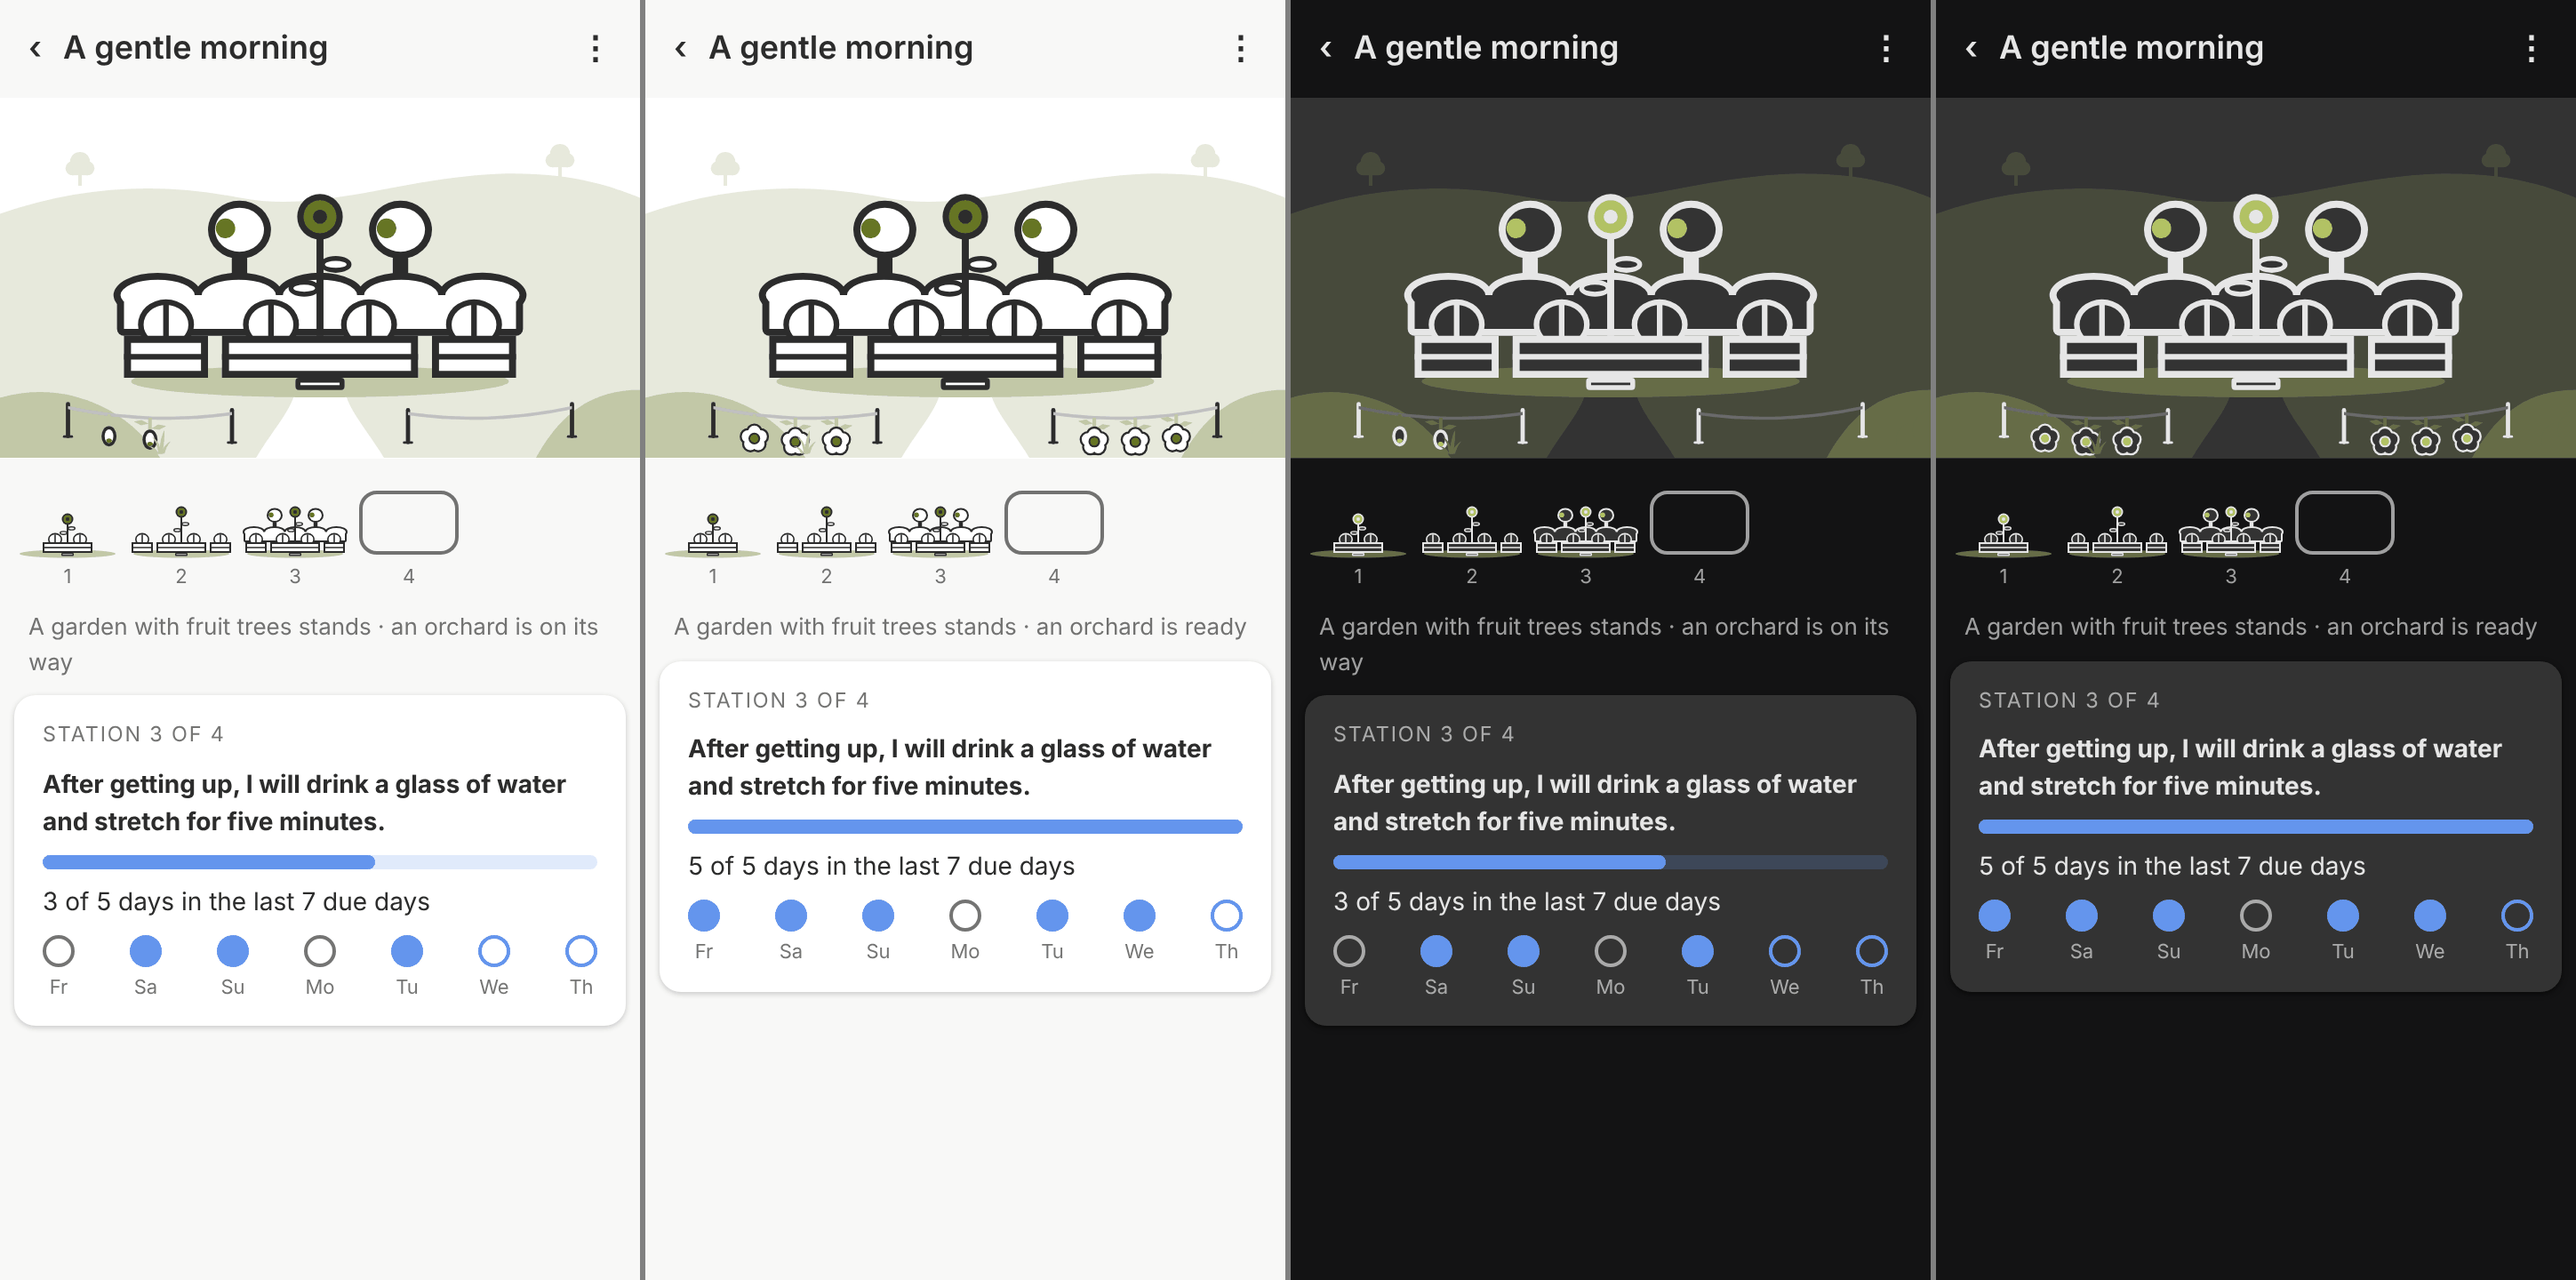
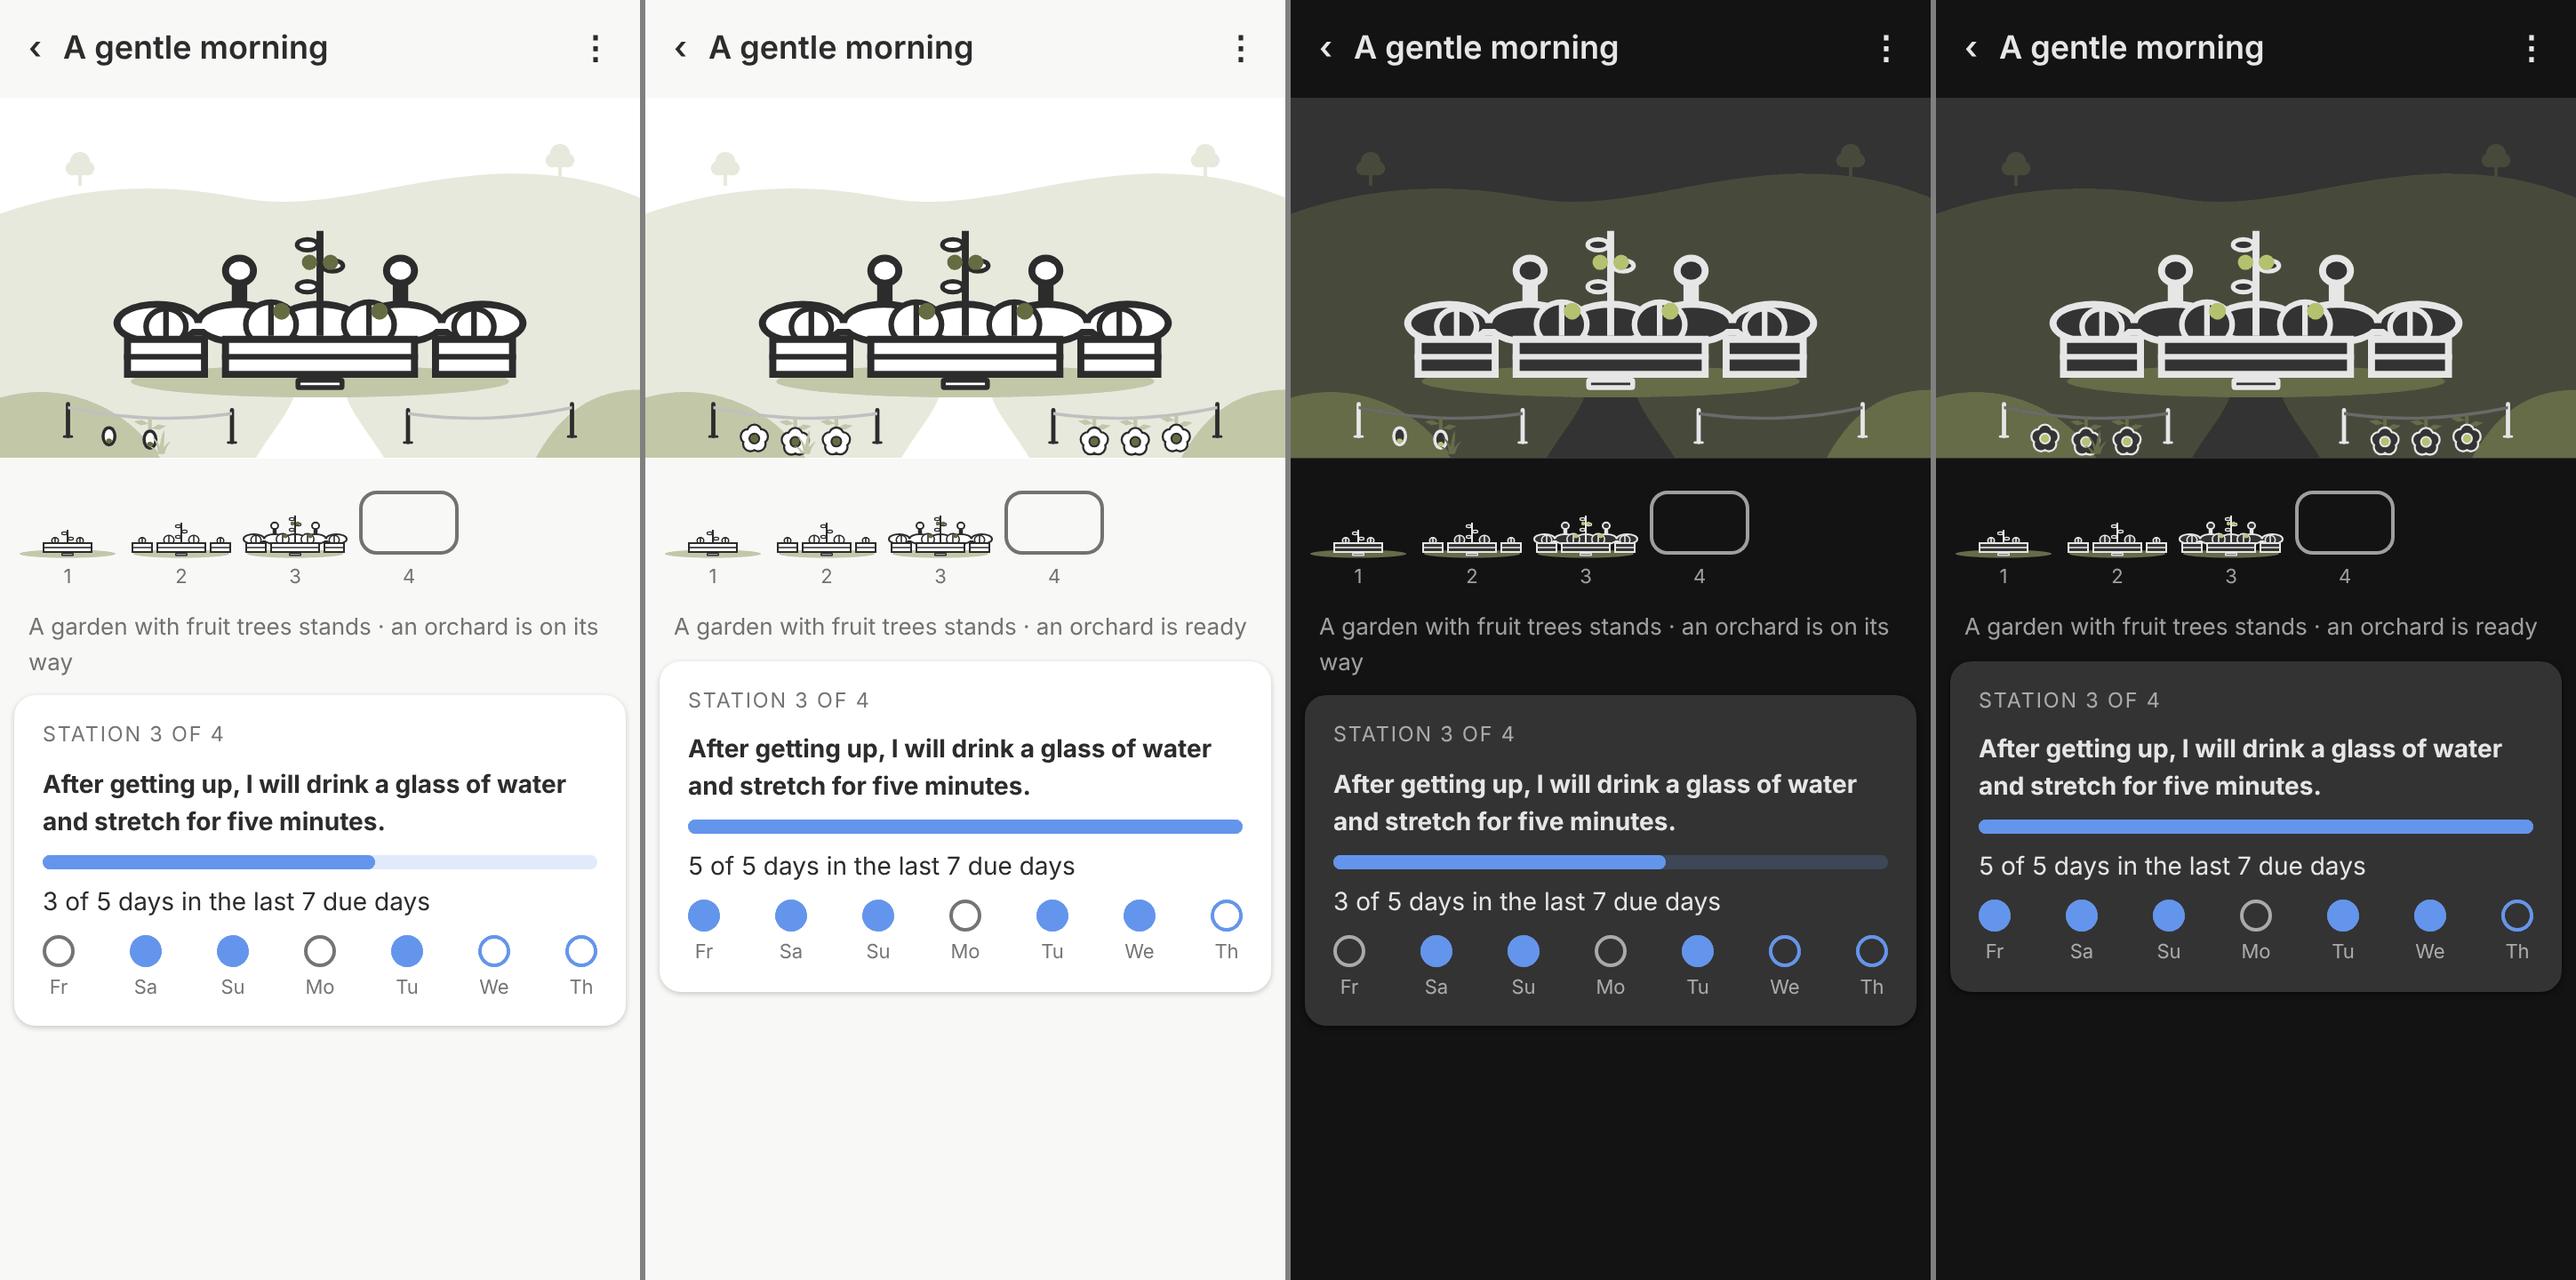
Art: Garden grows from elements with states (#135)
At the owner's word the sunflower goes and every element of Garden has
states: it enters at its smallest state and grows one state per
version. Plants seedling, grown, ripe; a stake bare, with a climber,
ripe; trees sapling, young, grown, old; the hedge low, then full; the
fruit, shown only on what is ripe, is the one accent. Version 1 is the
middle bed with seedlings and a bare stake, version 5 adds the low wall
with its gate. Choosing what grows is #138.

Claude-Session: https://claude.ai/code/session_019PsDpCdRYaLb9552fVk121

diff --git a/docs/log.md b/docs/log.md
@@ -2,7 +2,7 @@
 
 ## 2026-11-15
 
-- **Update** (#135, decided by the owner): Garden follows the history rule. The greenhouse is a different technique, so it is parked like the hand pump (rule 8 in [journey design](journey-design.md#builds-and-ladders-the-valley-42), comment on #114); version 4 is an orchard of five fruit trees behind the hedge, version 5 a walled garden: the orchard and beds inside a wall of stones at shoulder height, the trees and plants rising over it, its gate on the threshold stone (titles An orchard / Ein Obstgarten, A walled garden / Ein ummauerter Garten). The measured rules of #136 caught two faults on the way: a plant in the gate covered the threshold stone, and a lower wall made version 5 cover less than 5 % more than the orchard. The generator now also refuses a picture above 4 KB: a first orchard was 4,297 bytes and was written unnoticed ([decision](decisions/ladder-geometry.md)). Checked at 360 × 720 and in the row at 60 × 40, light and dark: a plant inside the gate read as a keyhole and was dropped. Then the owner saw the fruit trees' crowns floating like balls over the hedge and the wall: every tree now stands on a trunk, in a row of five, the trunks ending behind the hedge or wall. The owner then saw the trees jump (one in the middle, one on the right, suddenly five): they now grow from the middle, where the sunflower stood, one in version 3, three in version 4, five in version 5, each keeping its place; at the owner's word they also grow with the garden: a tree is young with one fruit when planted, grown with two a version later, old with three after that, so the first tree is the largest. Last, the owner saw versions 2 to 3 replace things instead of growing them (the sunflower and the back row gone, the plants smaller): Garden is now drawn by one function, version by version, so nothing moves, shrinks or disappears: the bed with the sunflower (1), a bed on each side (2), a hedge and two young trees beside the sunflower (3), those grown and two young ones further out (4), a low wall of stones with its gate (5); titles A row of beds / Eine Reihe von Beeten and A garden with fruit trees / Ein Garten mit Obstbäumen. To fit 4 KB, runs of plain shapes in one role are written as one path and straight runs as steps along one axis; no other picture changed (pixel comparison against `main`). The measuring now reads arcs and no longer lets rings of opposite direction cancel each other ([decision](decisions/ladder-geometry.md)). Sunflower and fruit are both in the accent from version 3 on.
+- **Update** (#135, decided by the owner): Garden follows the history rule. The greenhouse is a different technique, so it is parked like the hand pump (rule 8 in [journey design](journey-design.md#builds-and-ladders-the-valley-42), comment on #114); version 4 is an orchard of five fruit trees behind the hedge, version 5 a walled garden: the orchard and beds inside a wall of stones at shoulder height, the trees and plants rising over it, its gate on the threshold stone (titles An orchard / Ein Obstgarten, A walled garden / Ein ummauerter Garten). The measured rules of #136 caught two faults on the way: a plant in the gate covered the threshold stone, and a lower wall made version 5 cover less than 5 % more than the orchard. The generator now also refuses a picture above 4 KB: a first orchard was 4,297 bytes and was written unnoticed ([decision](decisions/ladder-geometry.md)). Checked at 360 × 720 and in the row at 60 × 40, light and dark: a plant inside the gate read as a keyhole and was dropped. Then the owner saw the fruit trees' crowns floating like balls over the hedge and the wall: every tree now stands on a trunk, in a row of five, the trunks ending behind the hedge or wall. The owner then saw the trees jump (one in the middle, one on the right, suddenly five): they now grow from the middle, where the sunflower stood, one in version 3, three in version 4, five in version 5, each keeping its place; at the owner's word they also grow with the garden: a tree is young with one fruit when planted, grown with two a version later, old with three after that, so the first tree is the largest. Last, the owner saw versions 2 to 3 replace things instead of growing them (the sunflower and the back row gone, the plants smaller): Garden is now drawn by one function, version by version, so nothing moves, shrinks or disappears: the bed with the sunflower (1), a bed on each side (2), a hedge and two young trees beside the sunflower (3), those grown and two young ones further out (4), a low wall of stones with its gate (5); titles A row of beds / Eine Reihe von Beeten and A garden with fruit trees / Ein Garten mit Obstbäumen. To fit 4 KB, runs of plain shapes in one role are written as one path and straight runs as steps along one axis; no other picture changed (pixel comparison against `main`). The measuring now reads arcs and no longer lets rings of opposite direction cancel each other ([decision](decisions/ladder-geometry.md)). Then, at the owner's word, the sunflower went: Garden is drawn from elements with states, each entering at its smallest state and growing one state per version (plants seedling → grown → ripe, a stake bare → climber → ripe, trees sapling → young → grown → old, the hedge low → full), and the fruit, shown only on what is ripe, is the one accent. Choosing what grows at a place is #138 (sub-issue of #114).
 - **Decision** (owner): ladder pictures are built with a geometry library and measured ([decision](decisions/ladder-geometry.md)). `clipper2-ts` 2.0.1 (BSL-1.0, development only, [dependencies](dependencies.md)) builds outlines by offsetting, the well house's cut-out by subtraction and the stonework clipped to its wall (`scripts/ladder-geometry.mjs`); `scripts/ladder-checks.mjs` measures every version before `scripts/draw-ladders.mjs` writes (inside the box, at least 5 % more area than the one before, the threshold stone free), and `packages/engine/test/art-geometry.test.ts` measures the committed pictures. A pixel comparison at four times the build size showed no visible change except the well house's stones, which now stop exactly at the arch, and the checks' first findings, now fixed: Garden 5's hedge reached past the box, Well 1's front stones below the base line. Crossing (retired by #128) is only warned about: its plank bridge covers 1 % more than the log ([journey design](journey-design.md#builds-and-ladders-the-valley-42)).
 - **Creation** (#128, Well): the ladder Well, drawn by `scripts/draw-ladders.mjs`: a water hole with its heap of earth and spade, a well sweep over a low stone curb, a round well with a winch, the well under a roof, a stone well house with the well under its arch; each whole and larger than the one before, on Home's threshold stone. Water in the builds is `tint-strong`; the accent is the bucket. Its land setting `setting-green` (a village green: a far ridge with roofs, no water) shares Home's path and marker posts; default marker lanterns, default hue water blue; titles in English and German. Checked at 360 × 720 and in the row at 60 × 40, light and dark: the well wall read as a crate and now has a round rim around its water. The fifth version was first a fountain; the owner rejected it (a fountain is another use than a well), so it is a well house: a closed house with a door read as a second Home house and a low arch as a garage, so its arch is tall and wide; the owner then saw the well standing in front of the house, so it is smaller, set back on the floor of a shaded arch, and the front wall is drawn over it with the arch cut out; then the owner found the stones no longer read as stones, so every stone wall (the well in versions 3 to 5, the well house's whole front wall, whose courses stop at the arch's curve) is drawn as courses of stones with staggered joints (`masonry`); last, the owner found the line broken (versions 1 and 2 were a spring and a trough under a pump, and a pump comes after a dug well): the ladder now follows how water is drawn from a dug well, from a water hole to a well sweep, a winch, a roof and a well house. **Decision** (owner): a ladder follows history step by step (rule 8 in [journey design](journey-design.md#builds-and-ladders-the-valley-42)); a new technique joining what stands (a hand pump at the well house) and several things at one place stay parked (comment on #114) ([journey design](journey-design.md#builds-and-ladders-the-valley-42), `docs/screenshots/ladder-well*.png`). Lookout follows after the owner's judgement.
 - **Creation** (#128, Garden): the ladder Garden, drawn by `scripts/draw-ladders.mjs`: a garden bed with a sunflower, a garden in rows, a garden with a hedge and a fruit tree, a greenhouse, an orchard around the greenhouse; each whole and larger than the one before, on the same threshold stone as Home. Its land setting `setting-field` (open fields, low hills, no water) shares Home's path to the threshold and marker posts (`sides`); default marker flowers, default hue moss; titles in English and German. The engine's list of ladders reads `garden.ladder.json` (no rule changed). Checked at 360 × 720 and in the row of versions at 60 × 40, light and dark, over three rounds: the bean poles were dropped as noise, the hedge became a row of round bushes instead of a box, plants rise further above their beds, the greenhouse stands on a low wall that hides its plants' feet, and the trees of the greenhouse and the orchard stand behind the hedge so their trunks do not read as posts ([journey design](journey-design.md#builds-and-ladders-the-valley-42), `docs/screenshots/ladder-garden*.png`). Well and Lookout follow after the owner's judgement.

diff --git a/docs/journey-design.md b/docs/journey-design.md
@@ -169,13 +169,14 @@ journey):
    before and also different in form, so the row reads as a story: Home
    is a fire in a ring of single stones, a tent, a hut under a round
    thatch, a cottage with a pitched roof and chimney, a house of two
-   storeys. Garden is drawn once and only adds and grows (#135): the bed
-   with two plants and the sunflower in the middle; a bed on each side;
-   a hedge behind and two fruit trees beside the sunflower; two more trees
-   further out; a low wall of stones in front with its gate on the
-   threshold. Nothing moves, shrinks or disappears; a tree is young with
-   one fruit when planted, grown with two a version later, old with three
-   after that. Well
+   storeys. Garden is drawn once from elements with states (#137): every
+   element enters at its smallest state and grows one state per version,
+   and nothing moves, shrinks or disappears. The middle bed with
+   seedlings and a bare stake (1); a bed on each side (2); a low hedge
+   and two saplings (3); the hedge full, two more saplings (4); a low wall
+   of stones with its gate (5). Plants go seedling → grown → ripe, the
+   stake bare → climber → ripe, trees sapling → young → grown → old;
+   fruit shows only on what is ripe. Choosing what grows is #138. Well
    follows how water is drawn: a water hole dug down to the water (its
    earth heaped behind with the spade in it), a well sweep (a beam on a
    forked post with a stone and the bucket on a pole) over a low stone
@@ -195,7 +196,7 @@ journey):
    decision 13).
 9. **Look.** Outlined in `fg` with a `bg` fill, one `accent` detail (the
    flame, a glowing door or window, the keystone, a rail cap, the
-   sunflower and the fruit, the bucket), water and
+   fruit, the bucket), water and
    the yard in `tint-strong` of the region's hue. The setting is quiet:
    ground and far trees in `tint`, a few reused plants (tuft, reeds, bush,
    flowers, far trees) in the [depth bands](#look-and-depth-bands).
